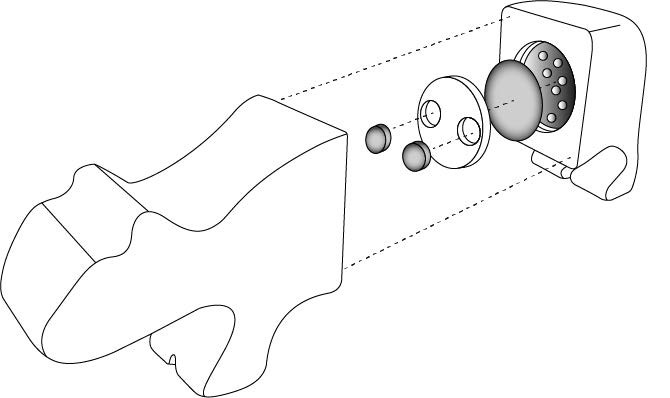
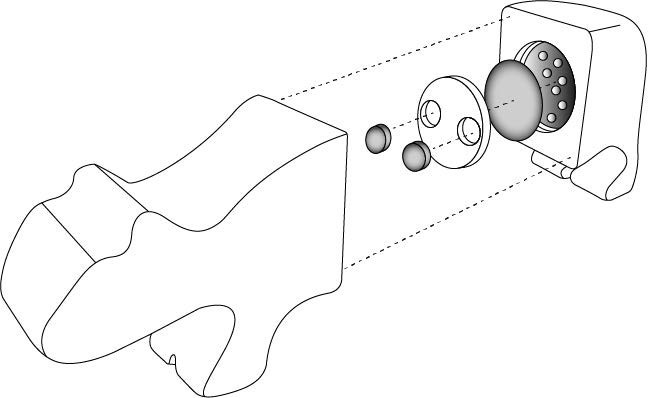
uni-sons

diff --git a/data/projects.js b/data/projects.js
@@ -385,14 +385,14 @@ const PROJECTS = [
       {
         headingFR: "Concept",
         headingEN: "Concept",
-        textFR: "UNI-SONS est un jouet sensoriel en bois dont chaque pièce prend la forme d'un animal. Les animaux s'emboîtent entre eux et contiennent un module sonore intégré activé par la manipulation. Le projet répond à un objectif d'éveil sensoriel pour les enfants, alliant forme organique, matériau naturel et interaction sonore.",
-        textEN: "UNI-SONS is a sensory wooden toy where each piece takes the shape of an animal. The animals interlock with one another and contain an integrated sound module activated by handling. The project responds to a sensory development objective for children, combining organic form, natural material, and sound interaction.",
+        textFR: "UNI-SONS est un jouet sensoriel en bois visant en aider le développement des enfants en bas âge. Chaque pièce prend la forme d'une moitié d'animal qui créent des sons différent lorsqu'on les secoue en fonction des particules qui sont à l'intérieur. L'objectif est de stimuler les sens des enfants tout en favorisant leur motricité fine en leur donnant le défi de trouver les bonnes combinaisons de pièces à l'aide des sons.",
+        textEN: "UNI-SONS is a sensory wooden toy aimed at supporting the development of young children. Each piece takes the shape of half an animal that produces different sounds when shaken, depending on the particles inside. The goal is to stimulate children's senses while promoting fine motor skills by challenging them to find the correct combinations of pieces using the sounds.",
       },
       {
         headingFR: "Prototypage",
         headingEN: "Prototyping",
-        textFR: "Le processus de conception a inclus la fabrication de prototypes en carton pour tester les formes et l'assemblage, suivie d'une documentation technique complète : axonométrie explosée et coupe détaillée du mécanisme sonore.",
-        textEN: "The design process included building cardboard prototypes to test forms and assembly, followed by complete technical documentation: an exploded axonometric drawing and a detailed section of the sound mechanism.",
+        textFR: "Le processus de conception a inclus la fabrication de prototypes en carton pour tester les formes et l'assemblage. Une version finale en bois a finalement été réalisée à la main dans un atelier de menuiserie.",
+        textEN: "The design process included building cardboard prototypes to test forms and assembly, followed by a final version handcrafted in a woodworking workshop.",
         layout: "grid",
         images: [
           // IMAGE 1 → remplacer par : "images/projects/uni-sons-01.jpg"
